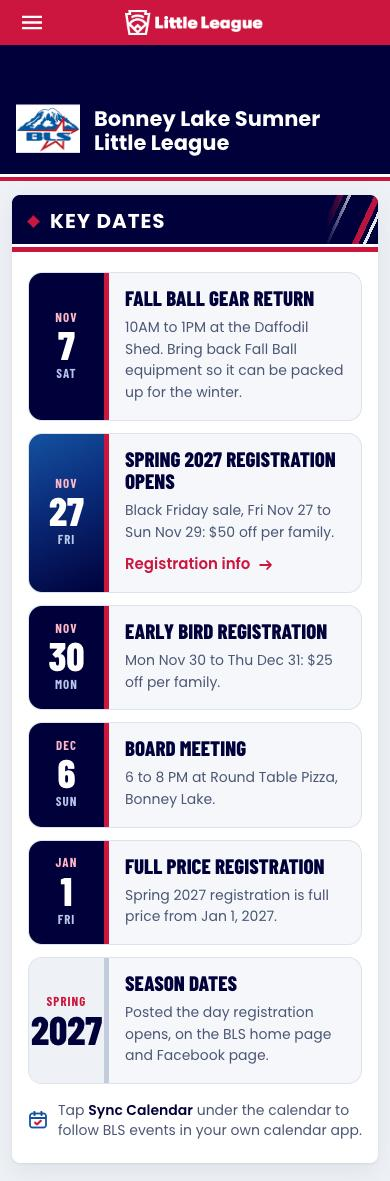
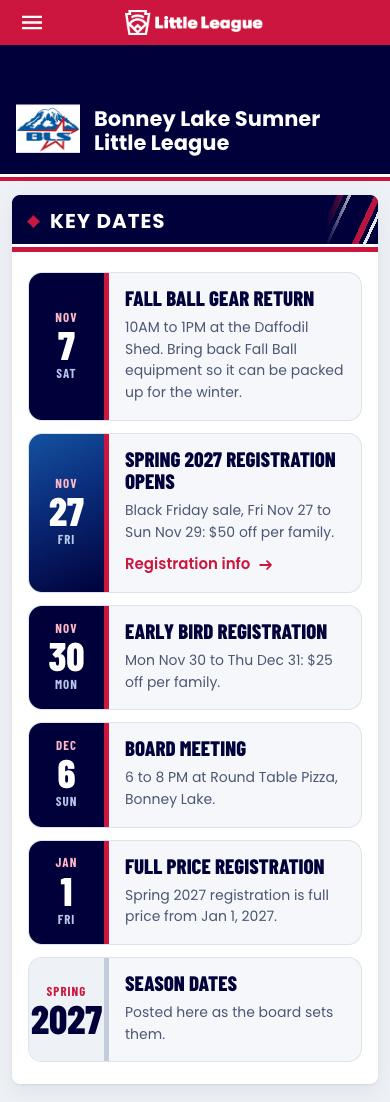
bls preview calendar: drop the Sync Calendar note (the month grid it pointed to is gone); season dates line no longer promises a date
Generated with [Claude Code](https://claude.ai/code)
via [Happy](https://happy.engineering)

Claude-Session: https://claude.ai/code/session_018pH9PNFLS4TcMKKFXS6iHD

Changed region(s): [[0.0, 0.0, 1.0, 0.9873]]

diff --git a/bls/preview/proposed/calendar.html b/bls/preview/proposed/calendar.html
@@ -241,7 +241,7 @@ body.Inner-Skin .dfArea .registration-listing #BSBGrid .grid-title{color:var(--b
   body.Inner-Skin .skInnerWrapper .Normal td:has(> ul, > ol):not(:last-child):not(.blsx):not(.blsx *){padding-right:16px}
   body.Inner-Skin .skInnerWrapper .Normal td > :is(ul,ol):not(.blsx):not(.blsx *){padding-left:1.15em!important}
 }
-</style><link href="https://go.blslittleleague.org/bls/preview/board/board.css?v=489ed3479a" rel="stylesheet"/></head>
+</style><link href="https://go.blslittleleague.org/bls/preview/board/board.css?v=e069858d1d" rel="stylesheet"/></head>
 <body class="LittleLeague2020-navy LittleLeague-Default Inner-Skin" id="Body">
 <!-- Google Tag Manager (noscript) -->
 <noscript>
@@ -1086,11 +1086,10 @@ window.addEventListener('OneTrustGroupsUpdated', handleGptAd);
 <div class="ku-date"><i>Spring</i><b>2027</b></div>
 <div class="ku-body">
 <h3>Season dates</h3>
-<p>Posted the day registration opens, on the BLS home page and Facebook page.</p>
+<p>Posted here as the board sets them.</p>
 </div>
 </li>
 </ol>
-<p class="ku-tip"><svg aria-hidden="true" viewbox="0 0 20 20"><rect fill="none" height="14" rx="2.5" stroke="#1452a0" stroke-width="1.8" width="16" x="2" y="3.5"></rect><path d="M2 8h16M6.5 1.8v3.4M13.5 1.8v3.4" stroke="#1452a0" stroke-linecap="round" stroke-width="1.8"></path><path d="M7 12.5l2 2 4-4" fill="none" stroke="#cd163f" stroke-linecap="round" stroke-linejoin="round" stroke-width="1.8"></path></svg><span>Tap <b>Sync Calendar</b> under the calendar to follow BLS events in your own calendar app.</span></p>
 </div>
 </div>
 <script data-cfasync="false" src="/cdn-cgi/scripts/5c5dd728/cloudflare-static/email-decode.min.js"></script><script type="text/javascript">
@@ -1216,5 +1215,5 @@ $(window).load(function(){
        } 
    </script>
 <script src="//translate.google.com/translate_a/element.js?cb=googleTranslateElementInit" type="text/javascript"></script>
-<div id="blsPreviewBar" style="position:fixed;left:0;right:0;bottom:0;z-index:2147483647;background:#00013a;padding:8px 10px calc(8px + env(safe-area-inset-bottom,0px));box-shadow:0 -4px 16px rgba(0,0,0,.35);"><div class="blsb" id="blsbBar"></div><div id="blsSwitch" style="display:flex;gap:6px;max-width:520px;margin:0 auto 6px;"><a href="https://go.blslittleleague.org/bls/preview/today/calendar.html" style="background:#fff;color:#00013a;flex:1;text-align:center;padding:11px 6px;border-radius:999px;font:700 15px/1 Arial,sans-serif;text-decoration:none;">Today</a><a href="https://go.blslittleleague.org/bls/preview/proposed/calendar.html" style="background:#cd163f;color:#fff;flex:1;text-align:center;padding:11px 6px;border-radius:999px;font:700 15px/1 Arial,sans-serif;text-decoration:none;">Proposed</a></div><div id="blsPreviewInfo" style="text-align:center;color:#c9d3f2;font:600 12px/1.3 Arial,sans-serif;">PREVIEW · Calendar · <a href="https://go.blslittleleague.org/bls/preview/" style="color:#fff;">All pages</a></div><div id="blsNeeds" style="text-align:center;color:#9be3b5;font:700 12px/1.6 Arial,sans-serif;">All facts in</div></div><div id="blsPreviewSpacer" style="height:96px"></div><script>window.BLSB={"base": "https://go.blslittleleague.org/bls/preview", "page": "calendar", "variant": "proposed", "index": false, "pages": {"home": {"t": "Home", "req": []}, "registration": {"t": "Registration Info", "req": []}, "volunteer": {"t": "Volunteer Opportunities", "req": ["Daniel: turn on the Spring 2027 volunteer form, with Ramey or Melissa. The sign-up list is empty today."]}, "corpmatch": {"t": "Corporate Match", "req": []}, "sponsorship": {"t": "Sponsorship Opportunities", "req": ["Info needed (Ashley Gauthier): the 2027 sponsor prices. The page shows 2026 prices."]}, "allstars": {"t": "Allstars", "req": ["Daniel: put the Champions page live first. The 2025 card on this page links to it."]}, "fallball": {"t": "Fall Ball", "req": []}, "coaches": {"t": "Coaches Corner", "req": []}, "faq": {"t": "FAQ", "req": []}, "health": {"t": "Health & Safety", "req": []}, "board": {"t": "Board Members", "req": []}, "calendar": {"t": "Calendar", "req": []}, "champions": {"t": "Champions", "req": []}, "fields": {"t": "Fields", "req": []}, "umpires": {"t": "Umpires", "req": []}, "runbook": {"t": "Coach Run Book", "req": ["Daniel: turn on spring 2027 coach and volunteer sign-up, with the Secretary or Information Officer.", "Daniel: put the Fields page live on blslittleleague.org first.", "Info needed (Dena Berkey): the 2027 uniform sizing steps by division."]}, "schedules": {"t": "Schedules & Scores", "req": ["Daniel: create one GameChanger league per division.", "Daniel: test that a league link opens without a GameChanger account."]}}};</script><script defer="" src="https://go.blslittleleague.org/bls/preview/board/board.js?v=489ed3479a"></script></body>
+<div id="blsPreviewBar" style="position:fixed;left:0;right:0;bottom:0;z-index:2147483647;background:#00013a;padding:8px 10px calc(8px + env(safe-area-inset-bottom,0px));box-shadow:0 -4px 16px rgba(0,0,0,.35);"><div class="blsb" id="blsbBar"></div><div id="blsSwitch" style="display:flex;gap:6px;max-width:520px;margin:0 auto 6px;"><a href="https://go.blslittleleague.org/bls/preview/today/calendar.html" style="background:#fff;color:#00013a;flex:1;text-align:center;padding:11px 6px;border-radius:999px;font:700 15px/1 Arial,sans-serif;text-decoration:none;">Today</a><a href="https://go.blslittleleague.org/bls/preview/proposed/calendar.html" style="background:#cd163f;color:#fff;flex:1;text-align:center;padding:11px 6px;border-radius:999px;font:700 15px/1 Arial,sans-serif;text-decoration:none;">Proposed</a></div><div id="blsPreviewInfo" style="text-align:center;color:#c9d3f2;font:600 12px/1.3 Arial,sans-serif;">PREVIEW · Calendar · <a href="https://go.blslittleleague.org/bls/preview/" style="color:#fff;">All pages</a></div><div id="blsNeeds" style="text-align:center;color:#9be3b5;font:700 12px/1.6 Arial,sans-serif;">All facts in</div></div><div id="blsPreviewSpacer" style="height:96px"></div><script>window.BLSB={"base": "https://go.blslittleleague.org/bls/preview", "page": "calendar", "variant": "proposed", "index": false, "pages": {"home": {"t": "Home", "req": []}, "registration": {"t": "Registration Info", "req": []}, "volunteer": {"t": "Volunteer Opportunities", "req": ["Daniel: turn on the Spring 2027 volunteer form, with Ramey or Melissa. The sign-up list is empty today."]}, "corpmatch": {"t": "Corporate Match", "req": []}, "sponsorship": {"t": "Sponsorship Opportunities", "req": ["Info needed (Ashley Gauthier): the 2027 sponsor prices. The page shows 2026 prices."]}, "allstars": {"t": "Allstars", "req": ["Daniel: put the Champions page live first. The 2025 card on this page links to it."]}, "fallball": {"t": "Fall Ball", "req": []}, "coaches": {"t": "Coaches Corner", "req": []}, "faq": {"t": "FAQ", "req": []}, "health": {"t": "Health & Safety", "req": []}, "board": {"t": "Board Members", "req": []}, "calendar": {"t": "Calendar", "req": []}, "champions": {"t": "Champions", "req": []}, "fields": {"t": "Fields", "req": []}, "umpires": {"t": "Umpires", "req": []}, "runbook": {"t": "Coach Run Book", "req": ["Daniel: turn on spring 2027 coach and volunteer sign-up, with the Secretary or Information Officer.", "Daniel: put the Fields page live on blslittleleague.org first.", "Info needed (Dena Berkey): the 2027 uniform sizing steps by division."]}, "schedules": {"t": "Schedules & Scores", "req": ["Daniel: create one GameChanger league per division.", "Daniel: test that a league link opens without a GameChanger account."]}}};</script><script defer="" src="https://go.blslittleleague.org/bls/preview/board/board.js?v=e069858d1d"></script></body>
 </html>

diff --git a/bls/preview/today/calendar.html b/bls/preview/today/calendar.html
@@ -108,7 +108,7 @@ $(document).ready( function () {
 		}
 });
 </script>
-<link href="https:///Default.aspx?tabid=719255" rel="canonical"/><meta content="intial-scale=1.0,width=device-width" name="viewport"/><link href="/DesktopModules/DDRMenu/BSBMobNav/mobnav.css" rel="stylesheet" type="text/css"/><link href="/DesktopModules/DDRMenu/1colmegamenu/1colmegamenu.css" rel="stylesheet" type="text/css"/><link href="https://go.blslittleleague.org/bls/preview/board/board.css?v=489ed3479a" rel="stylesheet"/></head>
+<link href="https:///Default.aspx?tabid=719255" rel="canonical"/><meta content="intial-scale=1.0,width=device-width" name="viewport"/><link href="/DesktopModules/DDRMenu/BSBMobNav/mobnav.css" rel="stylesheet" type="text/css"/><link href="/DesktopModules/DDRMenu/1colmegamenu/1colmegamenu.css" rel="stylesheet" type="text/css"/><link href="https://go.blslittleleague.org/bls/preview/board/board.css?v=e069858d1d" rel="stylesheet"/></head>
 <body class="LittleLeague2020-navy LittleLeague-Default Inner-Skin" id="Body">
 <!-- Google Tag Manager (noscript) -->
 <noscript>
@@ -1095,5 +1095,5 @@ $(window).load(function(){
        } 
    </script>
 <script src="//translate.google.com/translate_a/element.js?cb=googleTranslateElementInit" type="text/javascript"></script>
-<div id="blsPreviewBar" style="position:fixed;left:0;right:0;bottom:0;z-index:2147483647;background:#00013a;padding:8px 10px calc(8px + env(safe-area-inset-bottom,0px));box-shadow:0 -4px 16px rgba(0,0,0,.35);"><div class="blsb" id="blsbBar"></div><div id="blsSwitch" style="display:flex;gap:6px;max-width:520px;margin:0 auto 6px;"><a href="https://go.blslittleleague.org/bls/preview/today/calendar.html" style="background:#cd163f;color:#fff;flex:1;text-align:center;padding:11px 6px;border-radius:999px;font:700 15px/1 Arial,sans-serif;text-decoration:none;">Today</a><a href="https://go.blslittleleague.org/bls/preview/proposed/calendar.html" style="background:#fff;color:#00013a;flex:1;text-align:center;padding:11px 6px;border-radius:999px;font:700 15px/1 Arial,sans-serif;text-decoration:none;">Proposed</a></div><div id="blsPreviewInfo" style="text-align:center;color:#c9d3f2;font:600 12px/1.3 Arial,sans-serif;">PREVIEW · Calendar · <a href="https://go.blslittleleague.org/bls/preview/" style="color:#fff;">All pages</a></div><div id="blsNeeds" style="text-align:center;color:#9be3b5;font:700 12px/1.6 Arial,sans-serif;">All facts in</div></div><div id="blsPreviewSpacer" style="height:96px"></div><script>window.BLSB={"base": "https://go.blslittleleague.org/bls/preview", "page": "calendar", "variant": "today", "index": false, "pages": {"home": {"t": "Home", "req": []}, "registration": {"t": "Registration Info", "req": []}, "volunteer": {"t": "Volunteer Opportunities", "req": ["Daniel: turn on the Spring 2027 volunteer form, with Ramey or Melissa. The sign-up list is empty today."]}, "corpmatch": {"t": "Corporate Match", "req": []}, "sponsorship": {"t": "Sponsorship Opportunities", "req": ["Info needed (Ashley Gauthier): the 2027 sponsor prices. The page shows 2026 prices."]}, "allstars": {"t": "Allstars", "req": ["Daniel: put the Champions page live first. The 2025 card on this page links to it."]}, "fallball": {"t": "Fall Ball", "req": []}, "coaches": {"t": "Coaches Corner", "req": []}, "faq": {"t": "FAQ", "req": []}, "health": {"t": "Health & Safety", "req": []}, "board": {"t": "Board Members", "req": []}, "calendar": {"t": "Calendar", "req": []}, "champions": {"t": "Champions", "req": []}, "fields": {"t": "Fields", "req": []}, "umpires": {"t": "Umpires", "req": []}, "runbook": {"t": "Coach Run Book", "req": ["Daniel: turn on spring 2027 coach and volunteer sign-up, with the Secretary or Information Officer.", "Daniel: put the Fields page live on blslittleleague.org first.", "Info needed (Dena Berkey): the 2027 uniform sizing steps by division."]}, "schedules": {"t": "Schedules & Scores", "req": ["Daniel: create one GameChanger league per division.", "Daniel: test that a league link opens without a GameChanger account."]}}};</script><script defer="" src="https://go.blslittleleague.org/bls/preview/board/board.js?v=489ed3479a"></script></body>
+<div id="blsPreviewBar" style="position:fixed;left:0;right:0;bottom:0;z-index:2147483647;background:#00013a;padding:8px 10px calc(8px + env(safe-area-inset-bottom,0px));box-shadow:0 -4px 16px rgba(0,0,0,.35);"><div class="blsb" id="blsbBar"></div><div id="blsSwitch" style="display:flex;gap:6px;max-width:520px;margin:0 auto 6px;"><a href="https://go.blslittleleague.org/bls/preview/today/calendar.html" style="background:#cd163f;color:#fff;flex:1;text-align:center;padding:11px 6px;border-radius:999px;font:700 15px/1 Arial,sans-serif;text-decoration:none;">Today</a><a href="https://go.blslittleleague.org/bls/preview/proposed/calendar.html" style="background:#fff;color:#00013a;flex:1;text-align:center;padding:11px 6px;border-radius:999px;font:700 15px/1 Arial,sans-serif;text-decoration:none;">Proposed</a></div><div id="blsPreviewInfo" style="text-align:center;color:#c9d3f2;font:600 12px/1.3 Arial,sans-serif;">PREVIEW · Calendar · <a href="https://go.blslittleleague.org/bls/preview/" style="color:#fff;">All pages</a></div><div id="blsNeeds" style="text-align:center;color:#9be3b5;font:700 12px/1.6 Arial,sans-serif;">All facts in</div></div><div id="blsPreviewSpacer" style="height:96px"></div><script>window.BLSB={"base": "https://go.blslittleleague.org/bls/preview", "page": "calendar", "variant": "today", "index": false, "pages": {"home": {"t": "Home", "req": []}, "registration": {"t": "Registration Info", "req": []}, "volunteer": {"t": "Volunteer Opportunities", "req": ["Daniel: turn on the Spring 2027 volunteer form, with Ramey or Melissa. The sign-up list is empty today."]}, "corpmatch": {"t": "Corporate Match", "req": []}, "sponsorship": {"t": "Sponsorship Opportunities", "req": ["Info needed (Ashley Gauthier): the 2027 sponsor prices. The page shows 2026 prices."]}, "allstars": {"t": "Allstars", "req": ["Daniel: put the Champions page live first. The 2025 card on this page links to it."]}, "fallball": {"t": "Fall Ball", "req": []}, "coaches": {"t": "Coaches Corner", "req": []}, "faq": {"t": "FAQ", "req": []}, "health": {"t": "Health & Safety", "req": []}, "board": {"t": "Board Members", "req": []}, "calendar": {"t": "Calendar", "req": []}, "champions": {"t": "Champions", "req": []}, "fields": {"t": "Fields", "req": []}, "umpires": {"t": "Umpires", "req": []}, "runbook": {"t": "Coach Run Book", "req": ["Daniel: turn on spring 2027 coach and volunteer sign-up, with the Secretary or Information Officer.", "Daniel: put the Fields page live on blslittleleague.org first.", "Info needed (Dena Berkey): the 2027 uniform sizing steps by division."]}, "schedules": {"t": "Schedules & Scores", "req": ["Daniel: create one GameChanger league per division.", "Daniel: test that a league link opens without a GameChanger account."]}}};</script><script defer="" src="https://go.blslittleleague.org/bls/preview/board/board.js?v=e069858d1d"></script></body>
 </html>

diff --git a/bls/preview/modules/calendar.html b/bls/preview/modules/calendar.html
@@ -91,9 +91,8 @@
       <div class="ku-date"><i>Spring</i><b>2027</b></div>
       <div class="ku-body">
         <h3>Season dates</h3>
-        <p>Posted the day registration opens, on the BLS home page and Facebook page.</p>
+        <p>Posted here as the board sets them.</p>
       </div>
     </li>
   </ol>
-  <p class="ku-tip"><svg viewBox="0 0 20 20" aria-hidden="true"><rect x="2" y="3.5" width="16" height="14" rx="2.5" fill="none" stroke="#1452a0" stroke-width="1.8"/><path d="M2 8h16M6.5 1.8v3.4M13.5 1.8v3.4" stroke="#1452a0" stroke-width="1.8" stroke-linecap="round"/><path d="M7 12.5l2 2 4-4" fill="none" stroke="#cd163f" stroke-width="1.8" stroke-linecap="round" stroke-linejoin="round"/></svg><span>Tap <b>Sync Calendar</b> under the calendar to follow BLS events in your own calendar app.</span></p>
 </div>
